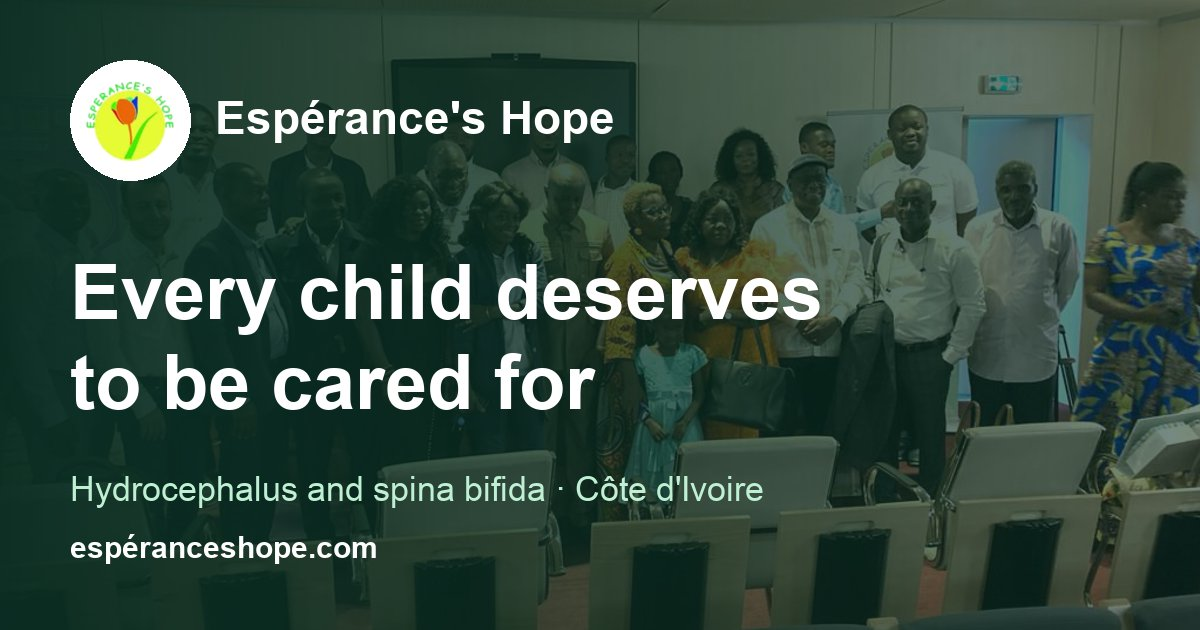
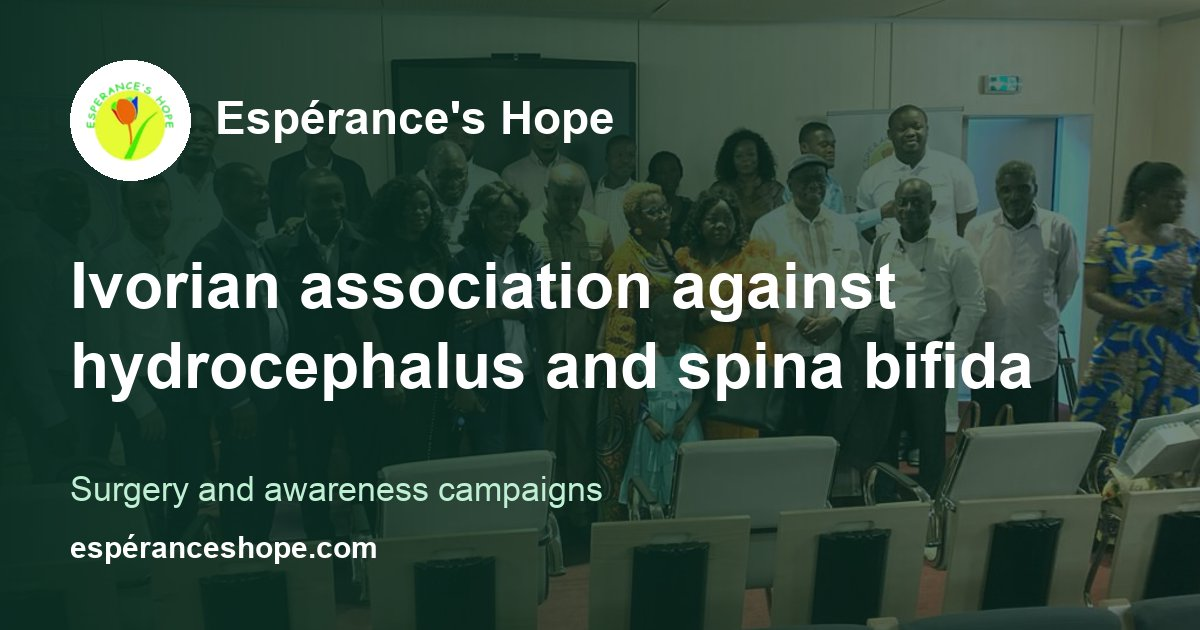
feat: more natural design and copy (simpler layout, factual hero)

Changed region(s): [[0.0617, 0.3921, 0.8633, 0.6635], [0.0617, 0.754, 0.6475, 0.8143]]

diff --git a/index.html b/index.html
@@ -32,7 +32,7 @@
   <link rel="preconnect" href="https://fonts.googleapis.com">
   <link rel="preconnect" href="https://fonts.gstatic.com" crossorigin>
   <link rel="stylesheet" href="https://fonts.googleapis.com/css2?family=Figtree:wght@500;600;700;800&family=Noto+Sans:ital,wght@0,400;0,500;0,600;1,400&display=swap">
-  <link rel="stylesheet" href="style.css?v=20261025j">
+  <link rel="stylesheet" href="style.css?v=20261028b">
   <script>document.documentElement.className += ' js';</script>
 </head>
 <body>
@@ -61,17 +61,15 @@
   <section class="hero" id="accueil">
     <div class="wrap reveal">
       <div class="hero-text">
-        <p class="eyebrow">Hydrocéphalie &amp; spina bifida · Côte d'Ivoire</p>
-        <h1>Chaque enfant mérite d'être soigné</h1>
-        <p class="lead">Espérance's Hope lutte aux côtés des enfants atteints d'hydrocéphalie en Afrique et de leurs familles.</p>
-        <a class="btn" href="#mission">Découvrir notre mission</a>
+        <p class="eyebrow">Espérance's Hope</p>
+        <h1>Association ivoirienne contre l'hydrocéphalie et le spina bifida</h1>
+        <p class="lead">Nous organisons des campagnes de chirurgie et de sensibilisation pour les enfants atteints d'hydrocéphalie, et nous soutenons leurs familles.</p>
+        <a class="btn" href="#agir">Voir nos actions</a>
       </div>
     </div>
   </section>
 
-  <div class="facts" role="region" aria-label="Repères de l'association"><ul class="wrap"><li><strong>2023</strong><span>Journée mondiale Spina Bifida &amp; Hydrocéphalie, Bingerville</span></li><li><strong>2025</strong><span>2<sup>e</sup> campagne de chirurgie, Hôpital Moscati</span></li><li><strong>3 missions</strong><span>Sensibiliser, faciliter l'accès aux soins, accompagner les familles</span></li></ul></div>
-
-  <section class="dark" id="presidente">
+    <section class="dark" id="presidente">
     <div class="wrap reveal">
       <h2>Mot de la Présidente</h2>
       <div class="president">
@@ -97,40 +95,28 @@
   <section id="hydrocephalie">
     <div class="wrap reveal">
       <h2>Comprendre l'hydrocéphalie</h2>
-      <div class="split">
-        <div class="prose">
+      <div class="prose">
           <p class="intro">L'hydrocéphalie est une maladie dans laquelle du liquide s'accumule dans le cerveau. Cette accumulation augmente la pression et peut provoquer chez l'enfant une tête qui grossit anormalement, des vomissements, une grande fatigue et des retards de développement.</p>
           <p class="intro">Bien prise en charge, elle se soigne, le plus souvent par une petite opération qui permet d'évacuer le liquide en trop. Mais en Afrique, de nombreuses familles n'ont pas accès au diagnostic ni aux soins à temps.</p>
+          <p class="intro">Plus l'enfant est pris en charge tôt, meilleures sont ses chances de grandir en bonne santé.</p>
         </div>
-        <aside class="notice">
-          <span class="icon"><svg viewBox="0 0 24 24" fill="none" stroke="currentColor" stroke-width="1.5" stroke-linecap="round" stroke-linejoin="round" aria-hidden="true"><path d="M15 14c.2-1 .7-1.7 1.5-2.5 1-.9 1.5-2.2 1.5-3.5A6 6 0 0 0 6 8c0 1 .2 2.2 1.5 3.5.7.7 1.3 1.5 1.5 2.5"/><path d="M9 18h6"/><path d="M10 22h4"/></svg></span>
-          <h3>Détecter tôt change tout</h3>
-          <p>Plus l'enfant est soigné vite, plus ses chances de grandir en bonne santé sont grandes.</p>
-        </aside>
-      </div>
     </div>
   </section>
 
   <section class="alt" id="mission">
     <div class="wrap reveal">
       <h2>Notre mission</h2>
-      <p class="intro">Nous voulons qu'aucun enfant ne soit laissé sans soins à cause de la distance, du manque d'information ou du manque de moyens.</p>
+      <p class="intro">Notre but : qu'aucun enfant ne reste sans soins faute d'information ou de moyens.</p>
       <ol class="steps">
         <li class="step">
-          <span class="num">01</span>
-          <span class="icon"><svg viewBox="0 0 24 24" fill="none" stroke="currentColor" stroke-width="1.5" stroke-linecap="round" stroke-linejoin="round" aria-hidden="true"><path d="m3 11 18-5v12L3 14v-3z"/><path d="M11.6 16.8a3 3 0 1 1-5.8-1.6"/></svg></span>
           <h3>Sensibiliser</h3>
           <p>Informer les familles et les communautés pour reconnaître les signes de la maladie et lutter contre les idées fausses.</p>
         </li>
         <li class="step">
-          <span class="num">02</span>
-          <span class="icon"><svg viewBox="0 0 24 24" fill="none" stroke="currentColor" stroke-width="1.5" stroke-linecap="round" stroke-linejoin="round" aria-hidden="true"><path d="M11 2v2"/><path d="M5 2v2"/><path d="M5 3H4a2 2 0 0 0-2 2v4a6 6 0 0 0 12 0V5a2 2 0 0 0-2-2h-1"/><path d="M8 15a6 6 0 0 0 12 0v-3"/><circle cx="20" cy="10" r="2"/></svg></span>
           <h3>Faciliter l'accès aux soins</h3>
           <p>Aider les enfants à être diagnostiqués et opérés dans des structures de santé adaptées.</p>
         </li>
         <li class="step">
-          <span class="num">03</span>
-          <span class="icon"><svg viewBox="0 0 24 24" fill="none" stroke="currentColor" stroke-width="1.5" stroke-linecap="round" stroke-linejoin="round" aria-hidden="true"><path d="M16 21v-2a4 4 0 0 0-4-4H6a4 4 0 0 0-4 4v2"/><circle cx="9" cy="7" r="4"/><path d="M22 21v-2a4 4 0 0 0-3-3.87"/><path d="M16 3.13a4 4 0 0 1 0 7.75"/></svg></span>
           <h3>Accompagner les familles</h3>
           <p>Soutenir les parents avant, pendant et après le traitement, pour que personne ne reste seul.</p>
         </li>
@@ -175,7 +161,6 @@
     <div class="wrap reveal">
       <h2>Nous soutenir</h2>
       <div class="support">
-        <span class="icon"><svg viewBox="0 0 24 24" fill="none" stroke="currentColor" stroke-width="1.5" stroke-linecap="round" stroke-linejoin="round" aria-hidden="true"><circle cx="18" cy="5" r="3"/><circle cx="6" cy="12" r="3"/><circle cx="18" cy="19" r="3"/><path d="m8.59 13.51 6.83 3.98"/><path d="m15.41 6.51-6.82 3.98"/></svg></span>
         <p class="intro">Vous pouvez déjà nous aider en parlant de l'hydrocéphalie autour de vous et en partageant ce site. Les moyens de nous soutenir directement seront bientôt disponibles ici.</p>
       </div>
     </div>

diff --git a/en/index.html b/en/index.html
@@ -32,7 +32,7 @@
   <link rel="preconnect" href="https://fonts.googleapis.com">
   <link rel="preconnect" href="https://fonts.gstatic.com" crossorigin>
   <link rel="stylesheet" href="https://fonts.googleapis.com/css2?family=Figtree:wght@500;600;700;800&family=Noto+Sans:ital,wght@0,400;0,500;0,600;1,400&display=swap">
-  <link rel="stylesheet" href="../style.css?v=20261025j">
+  <link rel="stylesheet" href="../style.css?v=20261028b">
   <script>document.documentElement.className += ' js';</script>
 </head>
 <body>
@@ -61,17 +61,15 @@
   <section class="hero" id="home">
     <div class="wrap reveal">
       <div class="hero-text">
-        <p class="eyebrow">Hydrocephalus &amp; spina bifida · Côte d'Ivoire</p>
-        <h1>Every child deserves care</h1>
-        <p class="lead">Espérance's Hope stands with children living with hydrocephalus in Africa, and with their families.</p>
-        <a class="btn" href="#mission">Discover our mission</a>
+        <p class="eyebrow">Espérance's Hope</p>
+        <h1>Ivorian association against hydrocephalus and spina bifida</h1>
+        <p class="lead">We run surgery and awareness campaigns for children with hydrocephalus, and we support their families.</p>
+        <a class="btn" href="#actions">See our work</a>
       </div>
     </div>
   </section>
 
-  <div class="facts" role="region" aria-label="Key facts about the association"><ul class="wrap"><li><strong>2023</strong><span>World Spina Bifida &amp; Hydrocephalus Day, Bingerville</span></li><li><strong>2025</strong><span>2<sup>nd</sup> surgery campaign, Moscati Hospital</span></li><li><strong>3 missions</strong><span>Raising awareness, improving access to care, supporting families</span></li></ul></div>
-
-  <section class="dark" id="president">
+    <section class="dark" id="president">
     <div class="wrap reveal">
       <h2>A word from the President</h2>
       <div class="president">
@@ -97,40 +95,28 @@
   <section id="hydrocephalus">
     <div class="wrap reveal">
       <h2>Understanding hydrocephalus</h2>
-      <div class="split">
-        <div class="prose">
+      <div class="prose">
           <p class="intro">Hydrocephalus is a condition in which fluid builds up inside the brain. The pressure rises and can cause a child's head to grow abnormally, vomiting, deep tiredness and delays in development.</p>
           <p class="intro">With proper care it can be treated, most often with a small operation that drains the extra fluid. But across Africa, many families cannot get a diagnosis or treatment in time.</p>
+          <p class="intro">The earlier a child is treated, the better the chances of growing up healthy.</p>
         </div>
-        <aside class="notice">
-          <span class="icon"><svg viewBox="0 0 24 24" fill="none" stroke="currentColor" stroke-width="1.5" stroke-linecap="round" stroke-linejoin="round" aria-hidden="true"><path d="M15 14c.2-1 .7-1.7 1.5-2.5 1-.9 1.5-2.2 1.5-3.5A6 6 0 0 0 6 8c0 1 .2 2.2 1.5 3.5.7.7 1.3 1.5 1.5 2.5"/><path d="M9 18h6"/><path d="M10 22h4"/></svg></span>
-          <h3>Early detection changes everything</h3>
-          <p>The sooner a child is treated, the better their chances of growing up healthy.</p>
-        </aside>
-      </div>
     </div>
   </section>
 
   <section class="alt" id="mission">
     <div class="wrap reveal">
       <h2>Our mission</h2>
-      <p class="intro">We want no child left without care because of distance, lack of information or lack of means.</p>
+      <p class="intro">Our aim: that no child goes without care for lack of information or means.</p>
       <ol class="steps">
         <li class="step">
-          <span class="num">01</span>
-          <span class="icon"><svg viewBox="0 0 24 24" fill="none" stroke="currentColor" stroke-width="1.5" stroke-linecap="round" stroke-linejoin="round" aria-hidden="true"><path d="m3 11 18-5v12L3 14v-3z"/><path d="M11.6 16.8a3 3 0 1 1-5.8-1.6"/></svg></span>
           <h3>Raise awareness</h3>
           <p>Inform families and communities so they can recognise the signs of the disease and challenge false beliefs.</p>
         </li>
         <li class="step">
-          <span class="num">02</span>
-          <span class="icon"><svg viewBox="0 0 24 24" fill="none" stroke="currentColor" stroke-width="1.5" stroke-linecap="round" stroke-linejoin="round" aria-hidden="true"><path d="M11 2v2"/><path d="M5 2v2"/><path d="M5 3H4a2 2 0 0 0-2 2v4a6 6 0 0 0 12 0V5a2 2 0 0 0-2-2h-1"/><path d="M8 15a6 6 0 0 0 12 0v-3"/><circle cx="20" cy="10" r="2"/></svg></span>
           <h3>Improve access to care</h3>
           <p>Help children get diagnosed and operated on in suitable health facilities.</p>
         </li>
         <li class="step">
-          <span class="num">03</span>
-          <span class="icon"><svg viewBox="0 0 24 24" fill="none" stroke="currentColor" stroke-width="1.5" stroke-linecap="round" stroke-linejoin="round" aria-hidden="true"><path d="M16 21v-2a4 4 0 0 0-4-4H6a4 4 0 0 0-4 4v2"/><circle cx="9" cy="7" r="4"/><path d="M22 21v-2a4 4 0 0 0-3-3.87"/><path d="M16 3.13a4 4 0 0 1 0 7.75"/></svg></span>
           <h3>Support families</h3>
           <p>Stand by parents before, during and after treatment, so that no one is left alone.</p>
         </li>
@@ -175,7 +161,6 @@
     <div class="wrap reveal">
       <h2>Support us</h2>
       <div class="support">
-        <span class="icon"><svg viewBox="0 0 24 24" fill="none" stroke="currentColor" stroke-width="1.5" stroke-linecap="round" stroke-linejoin="round" aria-hidden="true"><circle cx="18" cy="5" r="3"/><circle cx="6" cy="12" r="3"/><circle cx="18" cy="19" r="3"/><path d="m8.59 13.51 6.83 3.98"/><path d="m15.41 6.51-6.82 3.98"/></svg></span>
         <p class="intro">You can already help by talking about hydrocephalus around you and sharing this website. Ways to support us directly will be available here soon.</p>
       </div>
     </div>

diff --git a/style.css b/style.css
@@ -271,3 +271,32 @@ footer .copyright { margin: 28px 0 0; padding-top: 16px; border-top: 1px solid r
 img,video{max-width:100%;height:auto}
 @media (max-height:500px) and (orientation:landscape){.hero{min-height:0}}
 @media (max-width:800px){nav a.lang{text-align:center}}
+
+/* ============================================================
+   Rendu plus naturel : moins de cartes, de cercles, d'ombres et d'animations
+   ============================================================ */
+:root { --radius: 10px; --shadow: 0 1px 3px rgba(18, 55, 43, .10); }
+section h2::before { display: none; }
+.hero { padding: 104px 0 96px; }
+.hero h1 { font-size: clamp(2rem, 4.6vw, 3.1rem); }
+@media (max-width: 800px) { .hero { padding: 56px 0 64px; } }
+.btn, nav a.lang { border-radius: 8px; }
+.btn, .hero .btn { box-shadow: none; }
+.btn:hover { transform: none; box-shadow: none; }
+.js .reveal { opacity: 1; transform: none; transition: none; }
+
+/* Missions : une simple liste */
+.steps { display: block; max-width: 760px; margin-top: 28px; }
+.step, section:not(.alt) .step { background: none; border: 0; border-top: 1px solid var(--rule); border-radius: 0; box-shadow: none; padding: 20px 0; }
+.step h3 { margin-bottom: .25em; }
+
+/* Actions : une frise simple, la date à gauche */
+.events { grid-template-columns: 1fr; gap: 0; max-width: 820px; }
+.events li { display: grid; grid-template-columns: 190px 1fr; column-gap: 24px; row-gap: 2px; background: none; border: 0; border-top: 1px solid var(--rule); border-radius: 0; box-shadow: none; padding: 20px 0; }
+.events time { grid-row: 1 / span 2; align-self: start; background: none; padding: 0; border-radius: 0; margin: 0; color: var(--green); }
+.events h3 { margin: 0; }
+@media (max-width: 800px) { .events li { grid-template-columns: 1fr; } .events time { grid-row: auto; } }
+
+.gallery img, .video video { box-shadow: none; }
+.portrait img { border-radius: 12px; }
+.support { max-width: 760px; }
